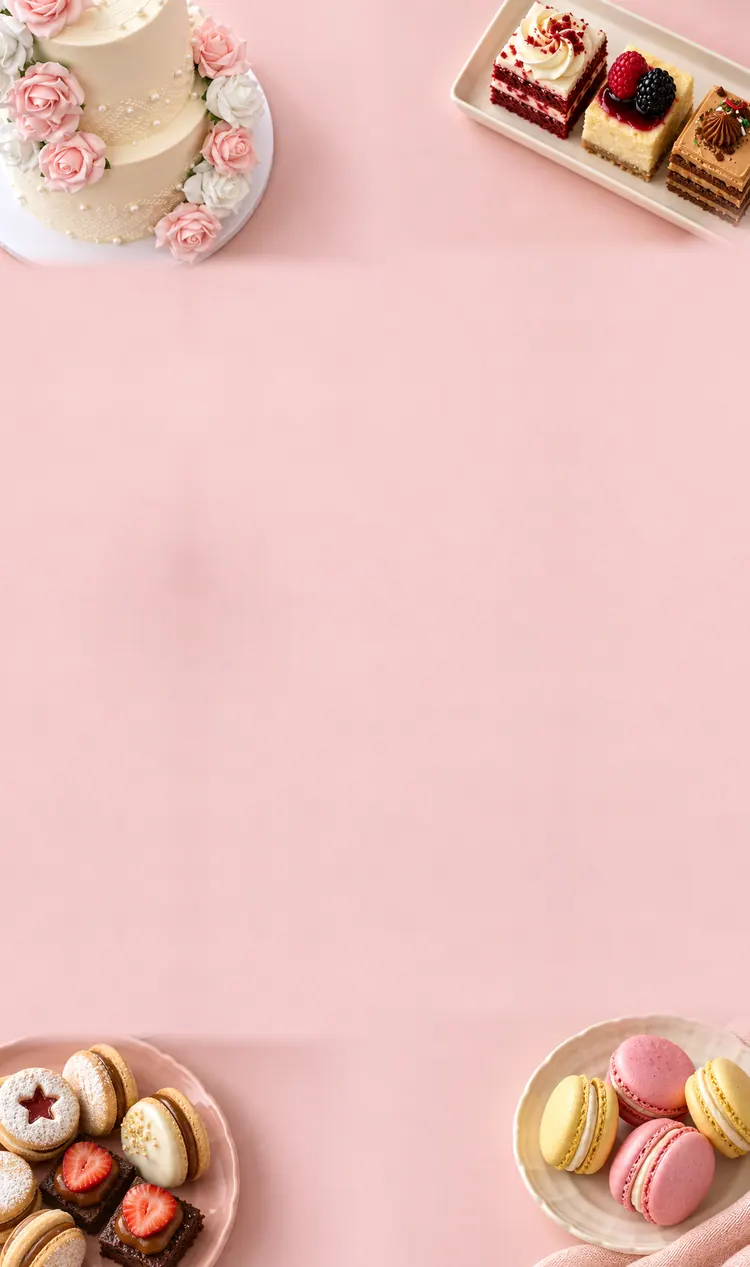
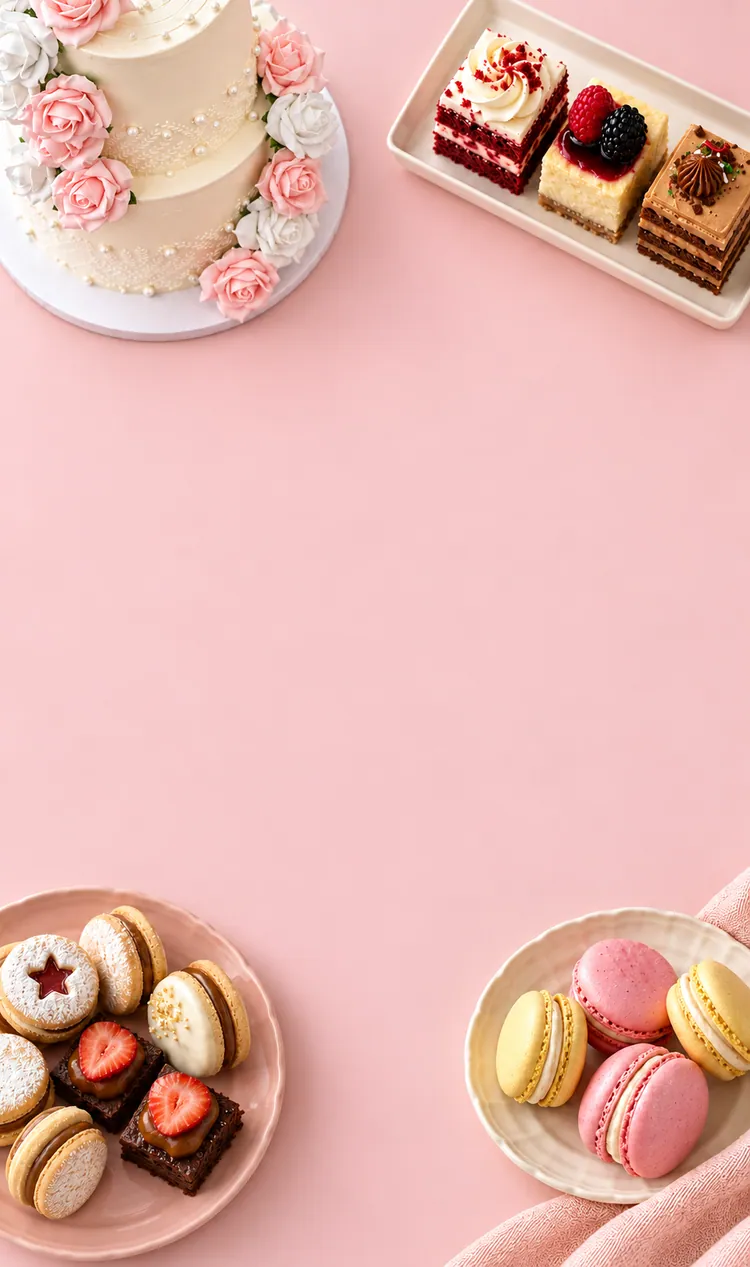
Portadas: usa las imagenes de tablet y celular de Luciano
Reemplaza las composiciones armadas por las imagenes generadas por Luciano: tablet 1229x1280 y celular 965x1630 para Aroma Moka y Dolce Shop. En celulares angostos se compacta el texto de la portada (menos espacio entre etiqueta, titulo y botones, y titulo de 30 px bajo 360 px) para que entre en la franja libre de la foto.

diff --git a/index.html b/index.html
@@ -65,7 +65,7 @@
         <picture>
           <source media="(min-width: 900px)" srcset="img/portada_aroma_960.webp 960w, img/portada_aroma.webp 1860w" sizes="100vw">
           <source media="(min-width: 640px)" srcset="img/portada_aroma_tablet.webp">
-          <img class="hero__bg settle" src="img/portada_aroma_movil.webp" srcset="img/portada_aroma_movil_750.webp 750w, img/portada_aroma_movil.webp 1125w" sizes="100vw" alt="Mesa de madera clara vista desde arriba con un café con latte art en taza rosa, un croissant de jamón y queso, un rol con arándanos y un panqueque con frutas" width="1125" height="1900" fetchpriority="high">
+          <img class="hero__bg settle" src="img/portada_aroma_movil.webp" srcset="img/portada_aroma_movil_750.webp 750w, img/portada_aroma_movil.webp 965w" sizes="100vw" alt="Mesa de madera clara vista desde arriba con un café con latte art en taza rosa, un croissant de jamón y queso, un rol con arándanos y un panqueque con frutas" width="965" height="1630" fetchpriority="high">
         </picture>
       </div>
       <div class="wrap hero__grid">
@@ -165,7 +165,7 @@
         <picture>
           <source media="(min-width: 900px)" srcset="img/portada_dolce_960.webp 960w, img/portada_dolce.webp 1859w" sizes="100vw">
           <source media="(min-width: 640px)" srcset="img/portada_dolce_tablet.webp">
-          <img class="hero__bg settle" src="img/portada_dolce_movil.webp" srcset="img/portada_dolce_movil_750.webp 750w, img/portada_dolce_movil.webp 1125w" sizes="100vw" alt="Superficie rosa vista desde arriba con una torta de dos pisos decorada con rosas, mini tortas en una bandeja, galletas y brownies con frutilla en un plato y macarons de colores" width="1125" height="1900" fetchpriority="high">
+          <img class="hero__bg settle" src="img/portada_dolce_movil.webp" srcset="img/portada_dolce_movil_750.webp 750w, img/portada_dolce_movil.webp 965w" sizes="100vw" alt="Superficie rosa vista desde arriba con una torta de dos pisos decorada con rosas, mini tortas en una bandeja, galletas y brownies con frutilla en un plato y macarons de colores" width="965" height="1630" fetchpriority="high">
         </picture>
       </div>
       <div class="wrap hero__grid">

diff --git a/css/style.css b/css/style.css
@@ -200,6 +200,14 @@ html[data-mode="dolce"] .switch__thumb { transform: translateX(100%); }
 .hero--cover .ring { left: 50%; right: auto; transform: translateX(-50%); }
 .hero--cover .ring::before { background: var(--hueso); }
 .hero--cover .hero__title { font-size: clamp(36px, 11vw, 44px); }
+/* celulares angostos: la franja libre de la foto es más baja que el texto, así que se compacta */
+@media (max-width: 399px) {
+  .hero--cover .hero__text { gap: 14px; }
+  .hero--cover .hero__cta { gap: 4px 20px; }
+}
+@media (max-width: 359px) {
+  .hero--cover .hero__title { font-size: 30px; }
+}
 @media (min-width: 640px) {
   .hero--cover .hero__field { aspect-ratio: 1536 / 1600; }
   .hero--cover .hero__title { font-size: clamp(44px, 7vw, 88px); }

diff --git a/IMPLEMENTACION.md b/IMPLEMENTACION.md
@@ -26,11 +26,13 @@ Enlace directo a cada web: `?v=aroma` y `?v=dolce`.
 
 ## Ajustes después de la entrega
 
-- **Portada de Aroma Moka con foto de fondo (2026-10-09, pedido de Luciano):** se quitaron las dos fotos que crecían con el scroll (taza rosa y pavlovas), sus epígrafes y el párrafo de la derecha; la portada usa una foto cenital de mesa de madera (`img/portada_aroma.webp` de 1860 px e `img/portada_aroma_960.webp`) con el título y los dos botones centrados ("Ver qué hay", "Cómo llegar"). El párrafo "Dos pasiones, una sola mesa…" se sacó porque "Juntos", justo abajo, dice lo mismo; los botones se conservaron. El sello giratorio pasó al centro del borde inferior, porque a la derecha tapaba el plato. La foto es el fondo en todos los tamaños, pero una foto horizontal recortada en vertical pierde toda la comida, así que hay **tres composiciones** elegidas con `<picture>`: desde 900 px la foto horizontal (`portada_aroma.webp` y `_960`), de 640 a 899 px una vertical casi cuadrada (`portada_aroma_tablet.webp`, 1536×1600) y por debajo de 640 px una vertical alta (`portada_aroma_movil.webp` 1125×1900 y `_movil_750`). Las dos verticales se armaron a partir de la misma foto: se recortaron las cuatro comidas (taza, rol, croissant, panqueque), se pusieron en las esquinas con fundidos y la madera del centro se extendió por espejo, para dejar el centro libre al texto. La altura de la portada sigue la proporción de cada imagen para que el texto no tape la comida (se midió en 320, 375, 430, 640, 768, 900, 1024 y 1440 px). En celular el título baja un poco de tamaño (36 a 44 px) para entrar en el centro libre a 320 px. El texto pasa a moka sobre la madera clara. Solo afecta a `.hero--cover`; la portada de Dolce Shop no cambió. La foto no lleva `decoding="async"` a propósito: es la imagen principal y así pinta de inmediato. Las fotos `03_cafe_taza_rosa.webp` y `16_pavlovas.webp` quedan sin uso.
-- **Portada de Dolce Shop con foto de fondo (2026-10-09, pedido de Luciano: "lo mismo"):** mismo tratamiento que la de Aroma Moka. Se quitaron las dos fotos que crecían (torta Oli y surtido de pastelería), sus epígrafes y el párrafo de la derecha ("Pastelería artesanal para cada ocasión…", que ya está en "A medida"); quedan el título y los botones "Pedir presupuesto" y "Ver trabajos" centrados, y el sello giratorio con el corazón al centro del borde inferior. Imágenes: `portada_dolce.webp` (1859 px) y `_960` para escritorio, `portada_dolce_tablet.webp` (1536×1600) y `portada_dolce_movil.webp` (1125×1900) con `_movil_750`, las dos verticales armadas con el mismo método. Fondo rosa `#F3CCCB` tomado de la foto (`.hero--dolce`). Se retiró el CSS que quedó sin uso (`.band`, `.grow`, `.captions`, `.cap`, `.hero__aside` y el diseño en dos columnas de la portada). Las fotos `dolce_torta_oli.webp` y `08_surtido_pasteleria.webp` siguen en uso en las pilas.
+- **Portada de Aroma Moka con foto de fondo (2026-10-09, pedido de Luciano):** se quitaron las dos fotos que crecían con el scroll (taza rosa y pavlovas), sus epígrafes y el párrafo de la derecha; la portada usa una foto cenital de mesa de madera (`img/portada_aroma.webp` de 1860 px e `img/portada_aroma_960.webp`) con el título y los dos botones centrados ("Ver qué hay", "Cómo llegar"). El párrafo "Dos pasiones, una sola mesa…" se sacó porque "Juntos", justo abajo, dice lo mismo; los botones se conservaron. El sello giratorio pasó al centro del borde inferior, porque a la derecha tapaba el plato. La foto es el fondo en todos los tamaños, pero una foto horizontal recortada en vertical pierde toda la comida, así que hay **tres composiciones** elegidas con `<picture>`: desde 900 px la foto horizontal (`portada_aroma.webp` y `_960`), de 640 a 899 px una vertical casi cuadrada (`portada_aroma_tablet.webp`, 1229×1280) y por debajo de 640 px una vertical alta (`portada_aroma_movil.webp` 965×1630 y `_movil_750`). Desde el 2026-10-09 las dos verticales son **imágenes generadas por Luciano** con esas proporciones (0,96:1 y 0,59:1), que reemplazaron a las composiciones armadas a partir de la foto horizontal (recorte de las cuatro comidas con fundidos y madera extendida por espejo). La altura de la portada sigue la proporción de cada imagen para que el texto no tape la comida (se midió en 320, 375, 430, 640, 768, 900, 1024 y 1440 px). En celular el título baja un poco de tamaño (36 a 44 px) para entrar en el centro libre a 320 px. El texto pasa a moka sobre la madera clara. Solo afecta a `.hero--cover`; la portada de Dolce Shop no cambió. La foto no lleva `decoding="async"` a propósito: es la imagen principal y así pinta de inmediato. Las fotos `03_cafe_taza_rosa.webp` y `16_pavlovas.webp` quedan sin uso.
+- **Portada de Dolce Shop con foto de fondo (2026-10-09, pedido de Luciano: "lo mismo"):** mismo tratamiento que la de Aroma Moka. Se quitaron las dos fotos que crecían (torta Oli y surtido de pastelería), sus epígrafes y el párrafo de la derecha ("Pastelería artesanal para cada ocasión…", que ya está en "A medida"); quedan el título y los botones "Pedir presupuesto" y "Ver trabajos" centrados, y el sello giratorio con el corazón al centro del borde inferior. Imágenes: `portada_dolce.webp` (1859 px) y `_960` para escritorio, `portada_dolce_tablet.webp` (1229×1280) y `portada_dolce_movil.webp` (965×1630) con `_movil_750`, las dos verticales generadas por Luciano (reemplazaron a las composiciones armadas con el mismo método que en Aroma Moka). Fondo rosa `#F3CCCB` tomado de la foto (`.hero--dolce`). Se retiró el CSS que quedó sin uso (`.band`, `.grow`, `.captions`, `.cap`, `.hero__aside` y el diseño en dos columnas de la portada). Las fotos `dolce_torta_oli.webp` y `08_surtido_pasteleria.webp` siguen en uso en las pilas.
 - **Las dos imágenes de portada son generadas con IA (ChatGPT), aportadas por Luciano:** no son fotos del local ni de los productos reales, y los platos pueden no coincidir con lo que hacen (en Dolce Shop, las tortas y macarons de la portada no son necesariamente los suyos). Los PNG originales (2 a 2,3 MB) no están en el repo; siguen en `Descargas/Img Chat GPT/`. El de Dolce Shop también está copiado en `img/` pero excluido de git en `.git/info/exclude` (solo local).
 
 - **Un solo marrón para el texto (2026-10-09, pedido de Luciano):** la etiqueta de la portada ("Aroma Moka & Dolce Shop") y las etiquetas chicas `label--accent` (Juntos, barras de carril, números de promesas) usaban madera (`#7E411A`); ahora usan moka (`#4F2C14`), el mismo del título y del resto del texto. Los logos ya usan un marrón casi igual (`#563117` medido), no se tocaron. **Madera queda solo como color de superficie:** fondo del cierre, botón activo del interruptor, cortina de cambio de modo y `theme-color` del navegador móvil. Pasarlo también a moka dejaría el cierre casi negro y quitaría un color de la paleta; si se quiere, es cambiar `--madera` en `css/style.css`.
+
+- **Imágenes verticales propias (2026-10-09, aportadas por Luciano):** tablet 1229×1280 y celular 965×1630 para las dos webs, algo menores que las medidas recomendadas (1536×1600 y 1125×1900) pero con la proporción exacta; en pantallas de alta densidad se verán apenas más suaves. No se entregó imagen de escritorio: siguen `portada_aroma.webp` y `portada_dolce.webp` (1860×846 y 1859×846). Se midió con el DOM que el texto cae dentro de la franja libre de cada imagen en 320, 360, 375, 430, 640, 768 y 899 px. En celulares angostos (hasta 399 px) se compactó el espacio entre etiqueta, título y botones, y por debajo de 360 px el título baja a 30 px, porque la franja libre es más baja que el texto. Los PNG originales (2 MB cada uno) quedan solo en local, excluidos de git; las copias idénticas están en `Descargas/Img Chat GPT/`.
 
 ## Fuente de diseño
 
